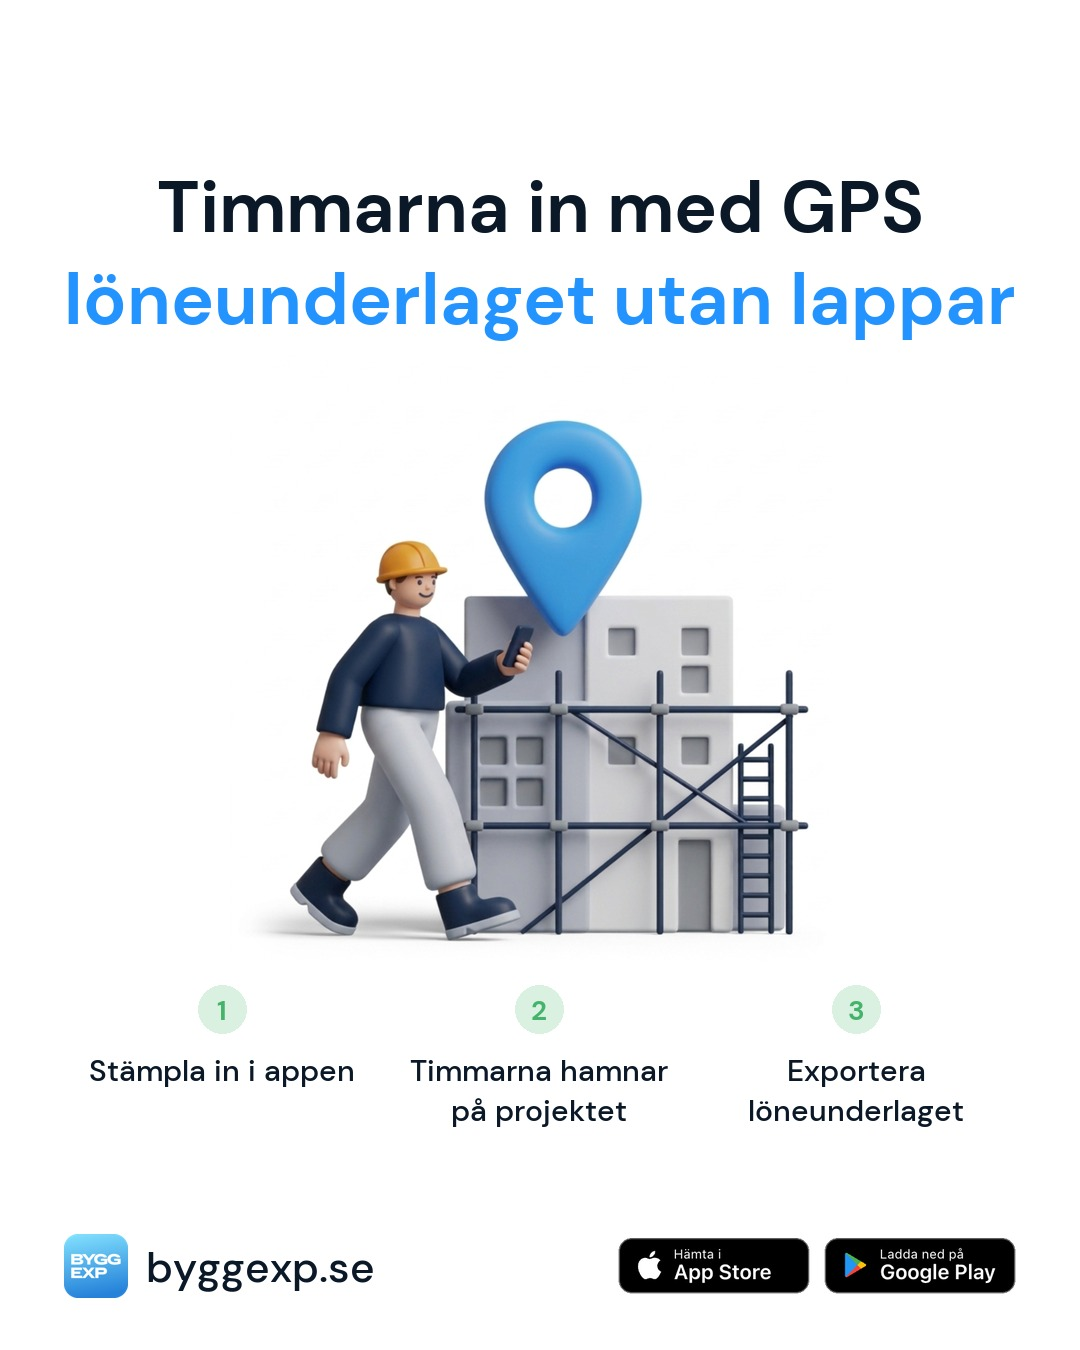
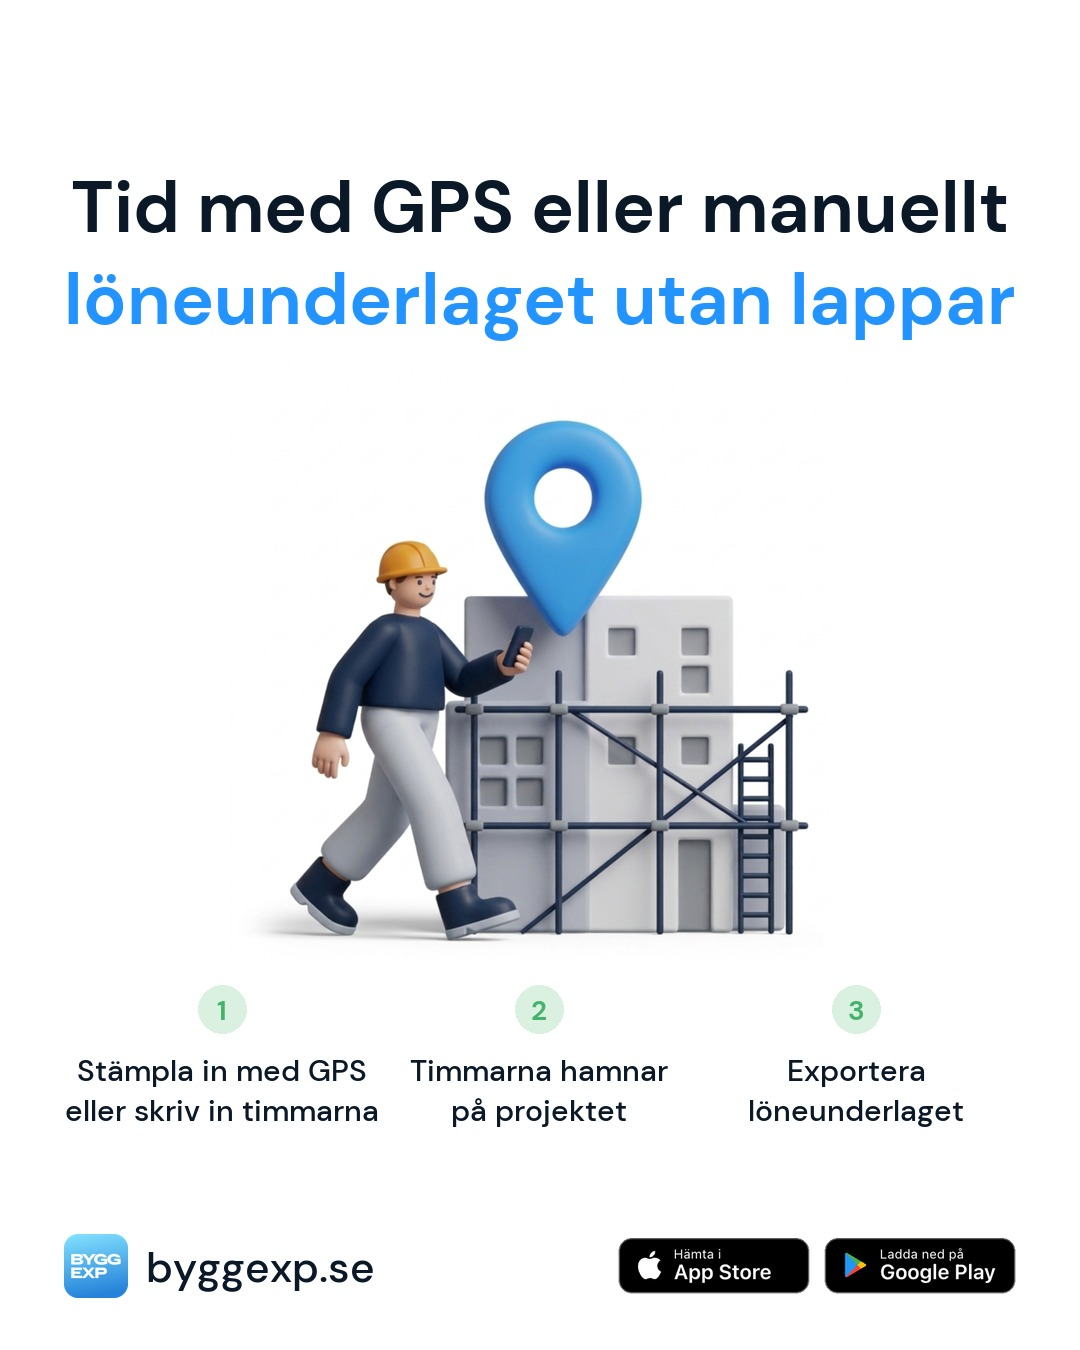
feat(smm): 3-picture carousel with real iPhone and GPS + manual hours (S27)
Claude-Session: https://claude.ai/code/session_015ffAXEftTHPL4eNP1AivUn

Changed region(s): [[0.0611, 0.1244, 0.9472, 0.1867], [0.0611, 0.7778, 0.3667, 0.84]]

diff --git a/design-assets/social/posts/make_3d.py b/design-assets/social/posts/make_3d.py
@@ -17,8 +17,8 @@ NAVY, BLUE, GREY = (10, 24, 40), (35, 148, 255), (91, 117, 145)
 
 # id, headline (2 lines), 3D file, how it works in 3 steps (S26), store badges (S16)
 POSTS = [  # first 10, benefit first; no price on the picture (S26)
-    ("01-tid", ("Timmarna in med GPS", "löneunderlaget utan lappar"), "tid-1.png",
-     ("Stämpla in i appen", "Timmarna hamnar på projektet", "Exportera löneunderlaget"), True),
+    ("01-tid", ("Tid med GPS eller manuellt", "löneunderlaget utan lappar"), "tid-1.png",
+     ("Stämpla in med GPS eller skriv in timmarna", "Timmarna hamnar på projektet", "Exportera löneunderlaget"), True),
     ("02-ata", ("Varje ÄTA blir en faktura", "ett klick från godkänd ÄTA"), "fakturor-3.png",
      ("Skriv ÄTA:n i projektet", "ÄTA:n godkänns", "Fakturan fylls i åt dig"), False),
     ("03-lon", ("Timmarna blir lön", "timmar och OB per person"), "ekonomi-2.png",
@@ -119,3 +119,101 @@ def main():
 
 if __name__ == "__main__":
     main()
+
+
+# ---- Carousel (owner 2026-10-31: one post, 3 pictures) ----
+APP_SHOTS = Path.home() / "Desktop/SMM/app-shots"  # fresh simulator screenshots, full height
+SHOTS = {  # one or two phones; label under each when two
+    "01-tid": [("GPS", APP_SHOTS / "01-arbetspass-gps-incheckad.png"),
+               ("Manuellt", APP_SHOTS / "02-arbetspass-dagkort-restid-bil-traktamente.png")],
+}
+
+
+TOP = 90  # carousel: headline higher (owner 2026-10-31)
+
+
+def slide_cover(lines, art, size):
+    f = Image.new("RGBA", (W, H), (255, 255, 255, 255))
+    d = ImageDraw.Draw(f)
+    for i, t in enumerate(lines):
+        d.text(((W - d.textlength(t, font=font(size))) / 2, TOP + i * 92), t, font=font(size), fill=NAVY if i == 0 else BLUE)
+    im = Image.open(ART / art).convert("RGBA").resize((820, 820), Image.LANCZOS)
+    f.alpha_composite(im, ((W - 820) // 2, 300))
+    return f, d
+
+
+def slide_steps(items, art):
+    f = Image.new("RGBA", (W, H), (255, 255, 255, 255))
+    d = ImageDraw.Draw(f)
+    t = "Så fungerar det"
+    d.text(((W - d.textlength(t, font=font(72))) / 2, TOP), t, font=font(72), fill=NAVY)
+    ft, fn = font(52, "Medium"), font(40, "Bold")
+    for i, text in enumerate(items):
+        y = 360 + i * 300
+        d.ellipse((96, y, 176, y + 80), fill=(218, 240, 225))
+        n = str(i + 1)
+        d.text((136 - d.textlength(n, font=fn) / 2, y + 14), n, font=fn, fill=(69, 179, 107))
+        d.text((216, y + 8), text, font=ft, fill=NAVY)
+        if i < 2:
+            d.line((136, y + 100, 136, y + 280), fill=(225, 234, 243), width=4)
+    return f, d
+
+
+PHONE = ART.parent / "screens/foto-phone.png"  # real iPhone frame from the decks (phone-frame.py)
+SCREEN, ISLAND, R_SCREEN = (46, 36, 874, 1836), (333, 66, 588, 138), 112
+
+
+def phone(path):
+    # The app screenshot inside the real iPhone frame; a short screenshot gets the app background below.
+    frame = Image.open(PHONE).convert("RGBA")
+    x0, y0, x1, y1 = SCREEN
+    sw, sh = x1 - x0, y1 - y0
+    shot = Image.open(path).convert("RGBA")
+    shot = shot.resize((sw, round(shot.height * sw / shot.width)), Image.LANCZOS)
+    scr = Image.new("RGBA", (sw, sh), shot.getpixel((4, shot.height - 4)))
+    scr.paste(shot.crop((0, 0, sw, min(sh, shot.height))), (0, 0))
+    k = 4
+    m = Image.new("L", (sw * k, sh * k), 0)
+    ImageDraw.Draw(m).rounded_rectangle((0, 0, sw * k - 1, sh * k - 1), R_SCREEN * k, fill=255)
+    frame.paste(scr, (x0, y0), m.resize((sw, sh), Image.LANCZOS))
+    i = ISLAND
+    ImageDraw.Draw(frame).rounded_rectangle(i, (i[3] - i[1]) // 2, fill=(0, 0, 0, 255))
+    return frame
+
+
+def slide_shot(shots, caption):
+    f = Image.new("RGBA", (W, H), (241, 246, 251, 255))
+    d = ImageDraw.Draw(f)
+    d.text(((W - d.textlength(caption, font=font(72))) / 2, TOP), caption, font=font(72), fill=NAVY)
+    from PIL import ImageFilter
+    h = 1090 if len(shots) == 1 else 960
+    phones = [phone(path) for _, path in shots]
+    phones = [ph.resize((round(ph.width * h / ph.height), h), Image.LANCZOS) for ph in phones]
+    gap = 40
+    x = (W - sum(ph.width for ph in phones) - gap * (len(phones) - 1)) // 2
+    y = 230
+    for (label, _), ph in zip(shots, phones):
+        sh = Image.new("RGBA", (W, H), (0, 0, 0, 0))
+        ImageDraw.Draw(sh).rounded_rectangle((x + 10, y + 30, x + ph.width - 10, y + h), 60, fill=(10, 24, 40, 55))
+        f.alpha_composite(sh.filter(ImageFilter.GaussianBlur(30)))
+        f.alpha_composite(ph, (x, y))
+        if len(shots) > 1:
+            fl = font(44, "Bold")
+            d.text((x + (ph.width - d.textlength(label, font=fl)) / 2, y + h + 24), label, font=fl, fill=BLUE)
+        x += ph.width + gap
+    return f, d
+
+
+def carousel(pid):
+    p = next(p for p in POSTS if p[0] == pid)
+    _, lines, art, items, badges = p
+    size = headline_size()
+    out = []
+    slides = (slide_cover(lines, art, size), slide_steps(items, art), slide_shot(SHOTS[pid], "Så ser det ut i appen"))
+    for i, (f, d) in enumerate(slides):
+        if i == 0:  # footer only on the first picture (owner 2026-10-31)
+            footer(f, d, badges)
+        out.append(f.convert("RGB"))
+    for i, im in enumerate(out, 1):
+        im.save(OUT / f"{pid}-k{i}.jpg", quality=92)
+    return out

diff --git a/design-assets/social/DESIGN-SYSTEM-SMM.md b/design-assets/social/DESIGN-SYSTEM-SMM.md
@@ -76,6 +76,8 @@
 
 **S26 · 2026-10-31 · Посты о функциях: под 3D — «как это работает», без цены.** Под 3D-картинкой 3 коротких шага (зелёные шарики 1-2-3, как в презентациях функций): что делает человек → что делает система → что получаешь. Человек, который видит функцию впервые, понимает логику. Цены на картинке нет, в тексте поста тоже нет (только «14 dagar gratis, ingen bindningstid»). Шаг — 1–2 строки, перенос сбалансированный, без одиночного слова. Отменяет S17/S18 для постов о функциях; цена остаётся на обложках и закрепе. Код: `posts/make_3d.py` (`steps`, `wrap`). Почему: владелец: «не надо везде цены ставить, расскажи подробнее про функцию, какая логика».
 
+**S27 · 2026-10-31 · Пост о функции = карусель из 3 картинок.** 1) 3D + заголовок-выгода (подпись byggexp.se + значки сторов — только здесь); 2) «Så fungerar det» — 3 шага крупно, зелёные шарики; 3) «Så ser det ut i appen» — настоящий экран в настоящем iPhone из презентаций (`byggexp-admin/docs/presentations/design-system/assets/screens/foto-phone.png`, титановая рамка, кнопки, Dynamic Island), не нарисованная рамка. Заголовки на всех слайдах выше (y 90). Скриншот — свежий из симулятора, во весь экран, без пустого низа, и показывает все поля, которые человек заполняет (часы, övertid, OB, restid, bil, traktamente, фото, kvitton), а не обрезанный кусок. Если у функции два способа — оба: тидрапорт = «GPS eller manuellt» в заголовке и шагах, на 3-й картинке два телефона с подписями «GPS» / «Manuellt». Код: `posts/make_3d.py` (`carousel`, `SHOTS`, скрины в `~/Desktop/SMM/app-shots/`). Почему: владелец: «одним постом 2–3 картинки», «заголовок выше», «телефон реальный», «подпись только на 1-й», «у нас не только GPS — мануальный ввод обязательно», «больше полей, где человек часы вводит».
+
 **S7 · Текст.** Шведский, без кириллицы; только факты из `docs/seo/product-facts-verified.md`; ссылки с UTM.
 
 ## Чек-лист перед показом
@@ -91,3 +93,4 @@
 10. FB-обложка: превью телефона — ничего не обрезано и не под аватаром (S20).
 11. Пост в 3D-стиле презентаций: белый фон, 3D по центру, под ним 3 шага «как работает», без цены (S23, S26).
 12. Нет ни одного экрана без пользы — обрезанных калькуляторов/пустых форм (S24).
+13. Карусель 3 картинки: подпись только на 1-й, настоящий iPhone, полный свежий экран, все способы функции (GPS + manuellt) (S27).

diff --git a/design-assets/social/posts/first10-3d.md b/design-assets/social/posts/first10-3d.md
@@ -6,19 +6,19 @@ Länkar: FB `utm_source=facebook`, LinkedIn `utm_source=linkedin`; `utm_medium=s
 
 ---
 
-## 01 · Timmarna in med GPS
+## 01 · Tid med GPS eller manuellt
 
 FB:
-Timmarna in med GPS – löneunderlaget utan lappar.
+Tid med GPS eller manuellt – löneunderlaget utan lappar.
 
-Personalen stämplar in och ut i appen (iPhone och Android). Timmarna hamnar på rätt projekt, och du exporterar löneunderlaget när månaden är slut.
+Personalen stämplar in och ut med GPS i appen (iPhone och Android) – eller skriver in timmarna manuellt. Timmarna hamnar på rätt projekt, och du exporterar löneunderlaget när månaden är slut.
 
 14 dagar gratis, ingen bindningstid 👉 https://byggexp.se/sv?utm_source=facebook&utm_medium=social&utm_campaign=first10
 
 LinkedIn:
-Timmarna in med GPS – löneunderlaget utan lappar.
+Tid med GPS eller manuellt – löneunderlaget utan lappar.
 
-Personalen stämplar in och ut i appen. Timmarna hamnar per projekt och timtyp (normal, övertid, OB), och du exporterar löneunderlaget som CSV eller SIE4.
+Personalen stämplar in och ut med GPS i appen eller skriver in timmarna manuellt. Timmarna hamnar per projekt och timtyp (normal, övertid, OB), och du exporterar löneunderlaget som CSV eller SIE4.
 
 14 dagar gratis, ingen bindningstid.
 https://byggexp.se/sv?utm_source=linkedin&utm_medium=social&utm_campaign=first10
